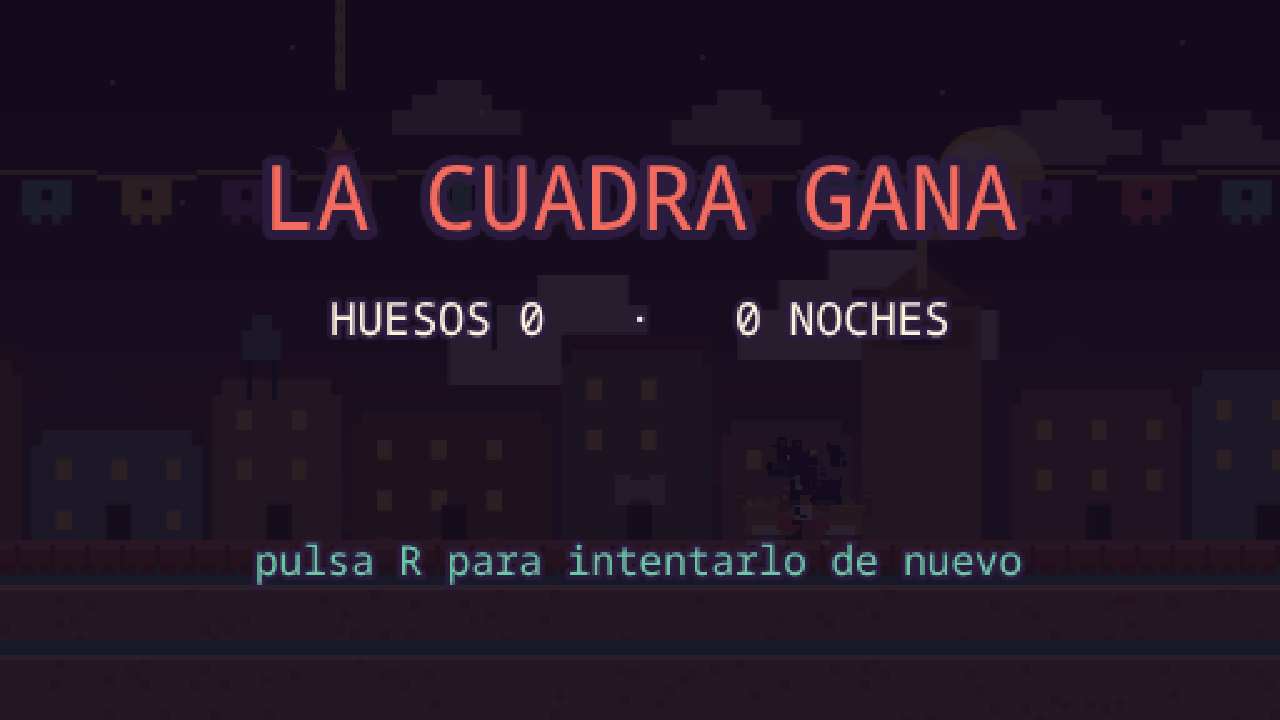
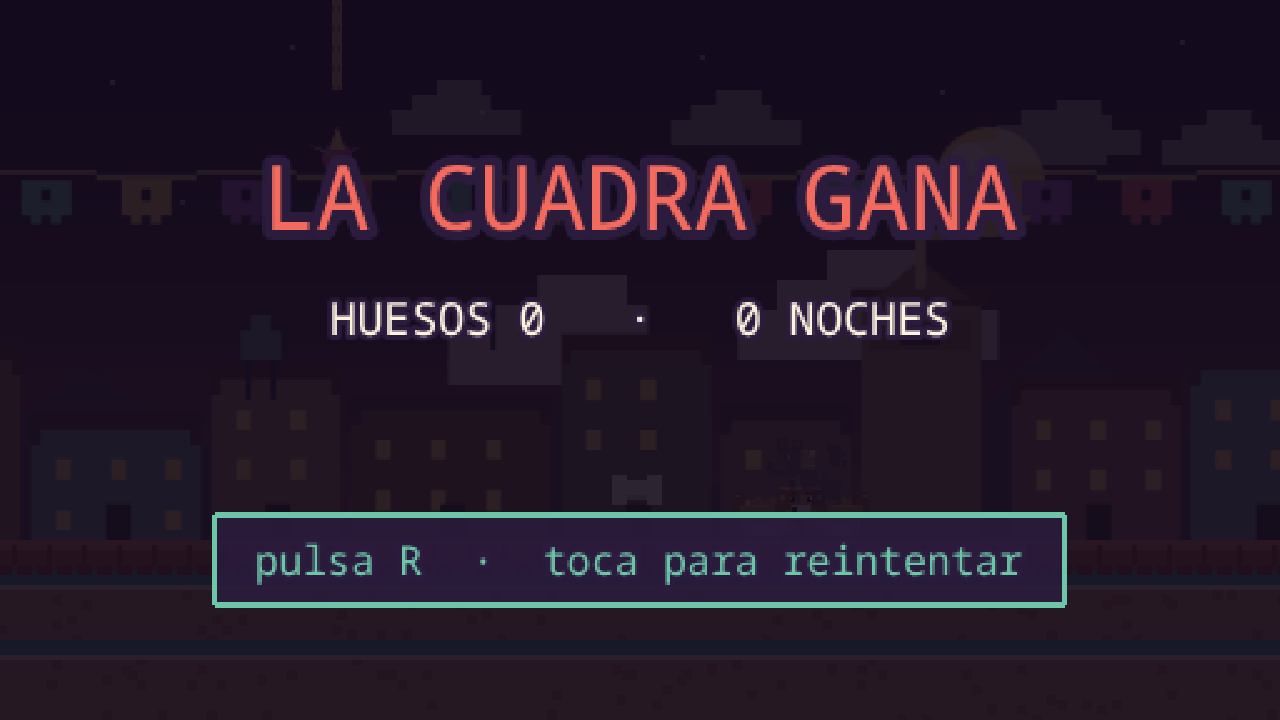
Add tap-to-replay on end screens

Changed region(s): [[0.1562, 0.7028, 0.8438, 0.8556]]

diff --git a/src/scenes/Level1.js b/src/scenes/Level1.js
@@ -1253,10 +1253,12 @@ export default class Level1 extends Phaser.Scene {
   }
 
   showGameOverOverlay() {
-    this.add
+    const overlay = this.add
       .rectangle(128 * S, 72 * S, 256 * S, 144 * S, 0x120a1c, 0.82)
       .setScrollFactor(0)
       .setDepth(200);
+
+    this.enableReplay(overlay);
 
     this.add
       .text(128 * S, 40 * S, t('gameover.title'), {
@@ -1291,6 +1293,12 @@ export default class Level1 extends Phaser.Scene {
       .setDepth(201);
 
     this.add
+      .rectangle(128 * S, 112 * S, 170 * S, 18 * S, 0x2b1b3d, 0.85)
+      .setStrokeStyle(1 * S, 0x6ec6a8, 1)
+      .setScrollFactor(0)
+      .setDepth(201);
+
+    this.add
       .text(128 * S, 112 * S, t('gameover.again'), {
         fontFamily: 'monospace',
         fontSize: 8 * S,
@@ -1300,7 +1308,7 @@ export default class Level1 extends Phaser.Scene {
       })
       .setOrigin(0.5)
       .setScrollFactor(0)
-      .setDepth(201);
+      .setDepth(202);
   }
 
   win() {
@@ -1336,10 +1344,12 @@ export default class Level1 extends Phaser.Scene {
   showWinOverlay() {
     const elapsed = ((this.time.now - this.startedAt) / 1000).toFixed(1);
 
-    this.add
+    const overlay = this.add
       .rectangle(128 * S, 72 * S, 256 * S, 144 * S, 0x120a1c, 0.82)
       .setScrollFactor(0)
       .setDepth(200);
+
+    this.enableReplay(overlay);
 
     this.add
       .text(128 * S, 40 * S, t('win.title'), {
@@ -1366,6 +1376,12 @@ export default class Level1 extends Phaser.Scene {
       .setDepth(201);
 
     this.add
+      .rectangle(128 * S, 112 * S, 170 * S, 18 * S, 0x2b1b3d, 0.85)
+      .setStrokeStyle(1 * S, 0x6ec6a8, 1)
+      .setScrollFactor(0)
+      .setDepth(201);
+
+    this.add
       .text(128 * S, 112 * S, t('win.again'), {
         fontFamily: 'monospace',
         fontSize: 8 * S,
@@ -1375,6 +1391,16 @@ export default class Level1 extends Phaser.Scene {
       })
       .setOrigin(0.5)
       .setScrollFactor(0)
-      .setDepth(201);
+      .setDepth(202);
+  }
+
+  enableReplay(overlay) {
+    // Give the end screen a beat before accepting a tap, so a stray touch
+    // during the death/win transition doesn't instantly restart.
+    this.time.delayedCall(500, () => {
+      if (!overlay.active) return;
+      overlay.setInteractive({ useHandCursor: true });
+      overlay.once('pointerdown', () => this.scene.restart());
+    });
   }
 }

diff --git a/src/i18n.js b/src/i18n.js
@@ -22,10 +22,10 @@ const strings = {
     'level.hint': 'A/D move  ·  SPACE flap/glide  ·  S dive  ·  T tuning',
     'win.title': 'THE BLOCK IS YOURS',
     'win.stats': 'BONES {bones}   ·   {nights} NIGHTS   ·   {time}s',
-    'win.again': 'press R for another night',
+    'win.again': 'press R  ·  tap for another night',
     'gameover.title': 'THE BLOCK WINS',
     'gameover.stats': 'BONES {bones}   ·   {nights} NIGHTS',
-    'gameover.again': 'press R to try again',
+    'gameover.again': 'press R  ·  tap to try again',
     'porch.sign': 'CASA',
     'float.food': 'YUM!',
     'float.checkpoint': 'CHECKPOINT',
@@ -76,10 +76,10 @@ const strings = {
     'level.hint': 'A/D mover · ESPACIO volar/planear · S picada · T ajustes',
     'win.title': 'LA CUADRA ES TUYA',
     'win.stats': 'HUESOS {bones}   ·   {nights} NOCHES   ·   {time}s',
-    'win.again': 'pulsa R para otra noche',
+    'win.again': 'pulsa R  ·  toca para otra noche',
     'gameover.title': 'LA CUADRA GANA',
     'gameover.stats': 'HUESOS {bones}   ·   {nights} NOCHES',
-    'gameover.again': 'pulsa R para intentarlo de nuevo',
+    'gameover.again': 'pulsa R  ·  toca para reintentar',
     'porch.sign': 'CASA',
     'float.food': '¡ÑAM!',
     'float.checkpoint': 'PUNTO DE CONTROL',

diff --git a/README.md b/README.md
@@ -85,6 +85,7 @@ On a touch device the on-screen controls appear automatically:
 
 - **bottom-left:** ◀ ▶ run (slide between them without lifting)
 - **bottom-right:** ▲ flap (hold to glide), ▼ dive
+- On the end screen, **tap anywhere** to replay (no R key needed).
 - Multi-touch works, so you can run and flap at the same time.
 - In portrait, the game pauses behind a **rotate your phone** screen with a
   "play anyway" escape.
